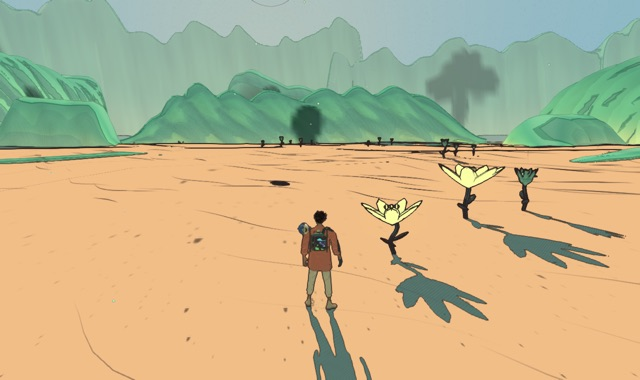
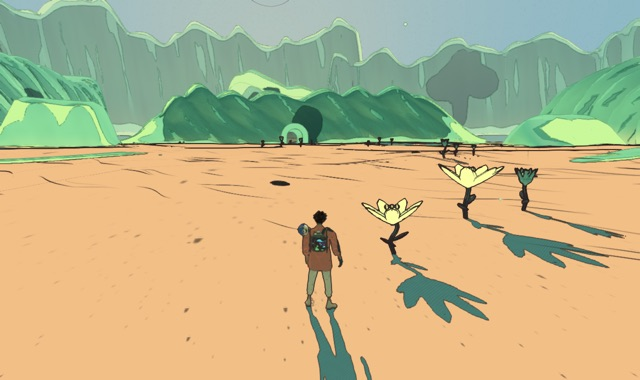
The Glass Dunes: the changelog's before / after pictures and numbers, the worlds-list picture re-made, the bench in the docs

diff --git a/src/changelog-media.js b/src/changelog-media.js
@@ -117,6 +117,41 @@ const saveAlong = (n, flags = {}) => ({ flags: { 'prologue.done': true, 'item.ba
 const GIFTS = ['stun', 'fire', 'cell', 'coil', 'lantern', 'lens', 'bell', 'shell', 'echo', 'star'];
 
 export const CHANGELOG_MEDIA = {
+  '0.88': [
+    { match: 'The Glass Dunes’ glass glows from within', shots: [
+      { name: 'glass-giants', caption: 'The cliff of the giants from the valley at 16:30: the giants held in the glass are crisp dark shapes, the lobes’ thin edges glow mint', from: 'headless Chrome against this branch’s own dev server, High, 1280 × 720 (7 October); the before at the commit before the change' },
+      { name: 'glass-breaker', caption: 'The breaking wave from the valley at 16:30, looking toward the sun: its lip and crest let the light through in lime, the tree inside cut clean', from: 'headless Chrome against this branch’s own dev server, High, 1280 × 720 (7 October); the before at the commit before the change' },
+      { name: 'glass-plate3', caption: 'The References’ view of the third picture: the giants in the cliffs, before soft smudges, now printed shapes', from: 'the References level, ?level=references&world=glassdunes&view=3, headless Chrome, High, 1456 × 816 (7 October)' },
+    ], see: 'Open the Glass Dunes (?level=glassdunes) in the late afternoon and look at the walls toward the sun: their thin edges and the lips of the waves glow; the giants stand dark inside the cliffs west of the valley.',
+      numbers: [
+        { title: 'The Handheld preset (render scale 0.75, no dynamic resolution), a tight loop of renderFrame() synced by a one-pixel read, 3 × 20 frames a sample, median of 5 rounds, 16:30, the crowd off (the machine shared with other agents: compare within the run)', unit: 'ms', better: 'lower', device: 'Mac, headless Chrome on Metal, 1280 × 720', source: 'docs/systems/worlds.md, “The Glass Dunes”', rows: [
+          { where: 'by the ship', before: 1.52, after: 1.55 },
+          { where: 'the valley', before: 1.51, after: 1.52 },
+          { where: 'the west camp', before: 1.43, after: 1.48 },
+          { where: 'the breaking wave', before: 1.36, after: 1.41 },
+          { where: 'the cliff of the giants', before: 1.33, after: 1.40 },
+          { where: 'the Signal Market (the budget, docs/systems/worlds.md)', before: '2.23–2.28', after: null },
+        ] },
+      ] },
+    { match: 'In the Glass Dunes the light that comes through the glass', shots: [
+      { name: 'pools-spawn', caption: 'From the ship at 17:36, the sun going: the walls’ shade on the sand an emerald, not a grey teal', from: 'headless Chrome against this branch’s own dev server, High, 1280 × 720 (7 October); the before at the commit before the change' },
+      { name: 'pools-westcamp', caption: 'The west camp at 17:36: the light through the cliff pooled mint and lime at its foot', from: 'headless Chrome against this branch’s own dev server, High, 1280 × 720 (7 October); the before at the commit before the change' },
+    ], see: 'In the Glass Dunes, late in the afternoon, walk to the foot of a wall on its side away from the sun: the sand there takes the glass’s mint and lime.' },
+    { match: 'Two archways in the Glass Dunes go through now', shots: [
+      { name: 'passage-giants', caption: 'The archway at the foot of the cliff of the giants: before a lit panel, now a vault of glass you walk through', from: 'headless Chrome against this branch’s own dev server, High, 1280 × 720 (7 October); the before at the commit before the change' },
+      { name: 'passage-wave', caption: 'The frozen wave in the valley’s middle: its archway goes through to the north', from: 'headless Chrome against this branch’s own dev server, High, 1280 × 720 (7 October); the before at the commit before the change' },
+      { name: 'passage-inside', only: 'after', caption: 'Inside the cliff of the giants’ passage, 70 m of green vault, the sand beyond at its end', from: 'headless Chrome against this branch’s own dev server, High, 1280 × 720, 16:30 (7 October)' },
+    ], see: 'From the ship walk north up the valley: the frozen wave’s archway is straight ahead; the giants’ is in the west cliff, north of the west camp.',
+      numbers: [
+        { title: 'The contact audit (what you stand on and walk into is what is drawn)', unit: 'problems', better: 'lower', device: 'node, tests/glass-dunes.test.js', source: 'docs/systems/worlds.md, “The Glass Dunes”', rows: [
+          { where: 'climbs inside (the arches’ drawn-only rims)', before: 5, after: 1 },
+          { where: 'walks through', before: 1, after: 2 },
+        ] },
+      ] },
+    { match: 'In the References level the Glass Dunes’ fourth picture', shots: [
+      { name: 'wave-plate4', caption: 'The fourth picture’s view: the wave rises steep over the camp, curls over its hollow and sweeps down to the sand', from: 'the References level, ?level=references&world=glassdunes&view=4, headless Chrome, High, 1456 × 816 (7 October)' },
+    ], see: 'Open ?level=references&world=glassdunes&view=4; the backslash key lays the picture over the view.' },
+  ],
   '0.87': [
     { match: 'The fluid blade: the glove draws', shots: [
       { name: 'blade-swing', only: 'after', caption: 'The blade mid-swing, among three ink blots in the Arena', from: 'headless Chrome against the dev server, High, 10:00 (7 October)' },

diff --git a/src/dune-glass-shader.js b/src/dune-glass-shader.js
@@ -12,8 +12,7 @@ import * as THREE from 'three';
 // there, 0..1; z the lobe, 0 in a crease .. 1 on a belly; w the height up the ridge, 0 foot .. 1 crest, 2 a
 // passage's vault):
 //   silhouettes  the giants, heads and trees held inside, cut at the distance's zero crossing: one flat
-//                dark shape with a hard edge (antialiased over a pixel), whatever the mesh's spacing;
-//                a pale band of glass just outside it (the light round a mass seen through the glass)
+//                dark shape with a hard edge (antialiased over a pixel), whatever the mesh's spacing
 //   the light through  thin glass (the ridge's low ends, its foot, the lip of a wave, the crest), and
 //                every edge seen grazing (a lobe turning away from the eye: 1 − |n·v|), lets the sun
 //                through, the more the more you look toward the sun: printed as two flat bands, a mint
@@ -34,8 +33,6 @@ export const DUNE_GLASS = {
   mint: '#86dca6',     // the glow band
   lime: '#bdf09c',     // its core
   sil: '#2a5848',      // the silhouettes held inside
-  halo: 0.0,           // the pale band round a silhouette: how much paler
-  haloW: 1.6,          // its width (m)
   rim: 0.85,           // the grazing edges' weight in the light through
   band: [0.58, 0.98],  // where the glow band and its core start (the light through, 0..1+)
   deep: 0.78,          // the deep shade: the albedo times this
@@ -56,8 +53,8 @@ export function duneGlassMaterial(mat, o = {}) {
   Object.assign(mat.uniforms, {
     uDuneMint: { value: new THREE.Vector4(...col(g.mint).toArray(), g.rim) },
     uDuneLime: { value: new THREE.Vector4(...col(g.lime).toArray(), g.night) },
-    uDuneSil: { value: new THREE.Vector4(...col(g.sil).toArray(), g.haloW) },
-    uDuneK: { value: new THREE.Vector4(g.band[0], g.band[1], g.deep, g.halo) },
+    uDuneSil: { value: new THREE.Vector4(...col(g.sil).toArray(), 0) },
+    uDuneK: { value: new THREE.Vector4(g.band[0], g.band[1], g.deep, 0) },
   });
   mat.defaultAttributeValues = { ...mat.defaultAttributeValues, [GLASS_ATTR]: GLASS_DEFAULT };
   return mat;
@@ -97,8 +94,8 @@ export const DUNE_GLASS_GLSL = /* glsl */ `
   #ifdef DUNE_GLASS
   uniform vec4 uDuneMint;   // rgb the glow band, a the grazing edges' weight
   uniform vec4 uDuneLime;   // rgb its core, a the night's glow
-  uniform vec4 uDuneSil;    // rgb the silhouettes, a the pale band's width round them (m)
-  uniform vec4 uDuneK;      // the bands' thresholds (x glow, y core), z the deep shade, w the pale band's lift
+  uniform vec4 uDuneSil;    // rgb the silhouettes
+  uniform vec4 uDuneK;      // the bands' thresholds (x glow, y core), z the deep shade
 
   // (derivatives first, in uniform flow: the caller runs it for every pixel of the material)
   void duneGlass(inout vec3 albedo, inout float L, inout float emit, vec3 n, float ndl) {
@@ -108,10 +105,8 @@ export const DUNE_GLASS_GLSL = /* glsl */ `
     float back = clamp(dot(-v, uSunDir) * 0.5 + 0.5, 0.0, 1.0);   // 1 looking into the sun
     float sun = duneSun();
     float shade = 1.0 - step(uToon, L);
-    // the silhouettes: a hard edge at the distance's zero, a pale band of glass round them
-    float sd = vGlass.x;
-    float sil = 1.0 - duneBand(sd, 0.0);
-    float halo = (1.0 - duneBand(sd, uDuneSil.a)) * (1.0 - sil);
+    // the silhouettes: a hard edge at the distance's zero
+    float sil = 1.0 - duneBand(vGlass.x, 0.0);
     // the light through: thin glass and grazing edges, the more toward the sun; through a silhouette, none
     float through = (vGlass.y * (0.6 + 0.55 * back) + rim * uDuneMint.a * (0.25 + 0.95 * back)) * sun * (0.55 + 0.6 * shade);
     through = max(through, vGlass.y * uDuneLime.a * uNight);
@@ -120,7 +115,6 @@ export const DUNE_GLASS_GLSL = /* glsl */ `
     // the deep shade: turned well away from the sun, or a lobe's crease (printed: a step darker)
     float deep = max(duneBand(-ndl, 0.38), duneBand(0.22, vGlass.z)) * shade * (1.0 - b1);
     albedo *= mix(1.0, uDuneK.z, deep);
-    albedo = mix(albedo, min(albedo * (1.0 + uDuneK.w * 2.0), vec3(1.0)), halo);
     albedo = mix(albedo, uDuneSil.rgb * (0.85 + 0.3 * min(vGlass.w, 1.0)), sil);
     // a pale streak up each lobe's belly, where it turns most toward you (the plates' long highlights)
     float streak = duneBand(vGlass.z, 0.9) * (1.0 - sil) * (1.0 - b1) * smoothstep(0.1, 0.5, vGlass.w) * step(vGlass.w, 1.5);

diff --git a/docs/systems/worlds.md b/docs/systems/worlds.md
@@ -546,6 +546,9 @@ and five of the lake's folk stand on its walks and decks, each with a few toned 
   1.83 ms / 321, the valley 2.11 / 277, the west camp 1.73 / 237, the breaker 1.73 / 215), the Signal Market
   2.23–2.28 ms and 312–695 draws. About 0.38 M triangles drawn at the spawn on the Handheld preset (0.87 M on
   High); the static collision ~45 k triangles. The load is the game's steps (a ridge a step).
+  The glass shader and the passages (October 2026; the same method, 3 × 20 frames, median of 5 rounds, 16:30,
+  the crowd off): by the ship 1.52 → 1.55 ms, the valley 1.51 → 1.52, the west camp 1.43 → 1.48, the breaker
+  1.36 → 1.41, the cliff of the giants 1.33 → 1.40; draws unchanged (±2); the pools add a few ms to the load.
 - **Tests** (`tests/glass-dunes.test.js`): the kit (finite, coloured, the face out, the ends sunk, the silhouettes
   darker), the four views, the detour on the map and off the route, the build (the cliff solid, a mound stood on
   where drawn, the ship's flat), the contact audit (1 climbs inside, 2 walk through: the drawn-only rims that took
